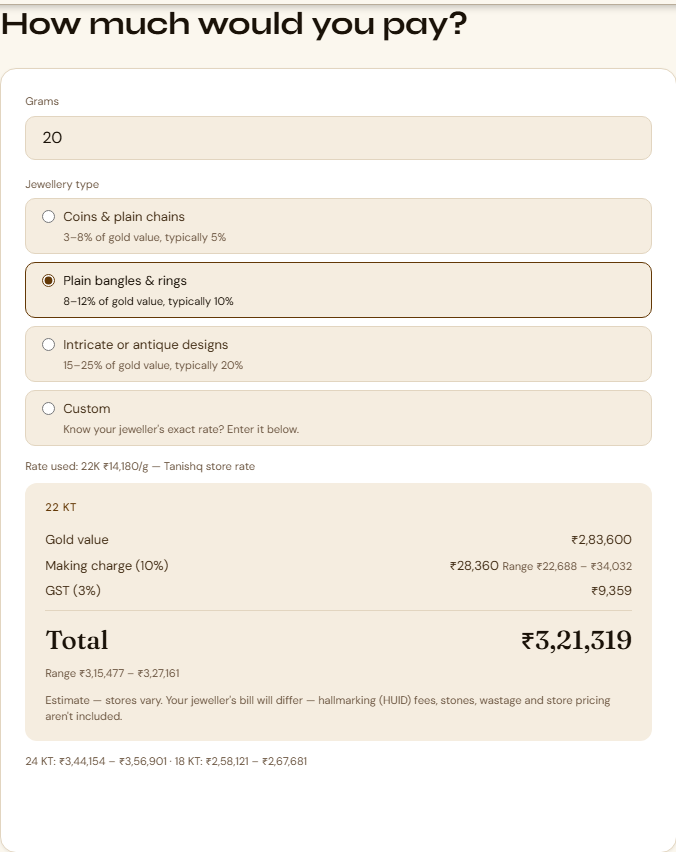
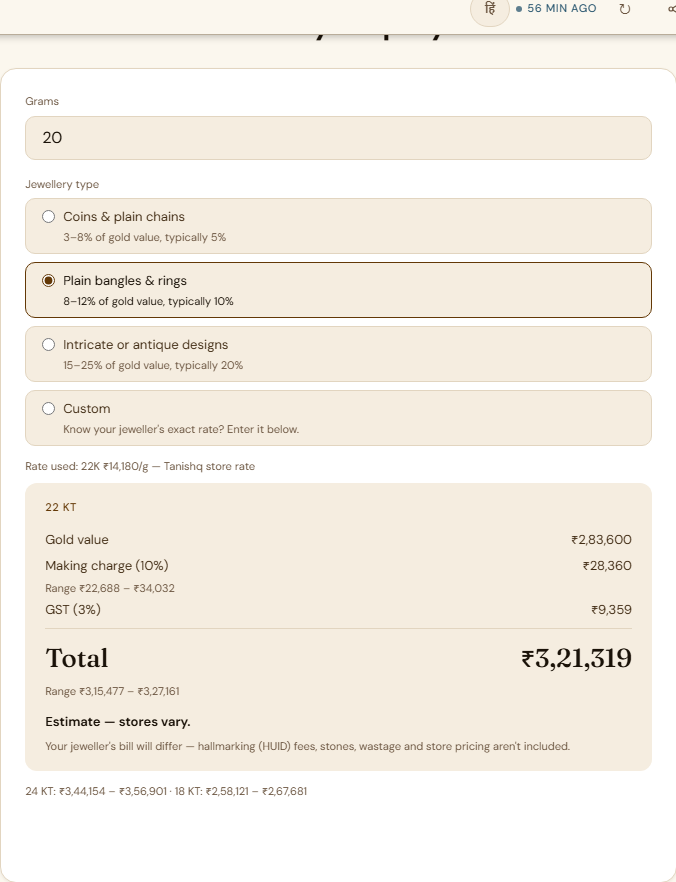
chore(calc): re-measure calc-wrap min-height after the row/label split; refresh screenshots
Splitting the making-charge range onto its own line and promoting the
estimate label to its own bold line both add vertical height. Re-
measured the same way as before (min-height zeroed, renderCalculator()
driven directly): plain/intricate preset 364px; + stale-price or
estimate-tier note 389px (worst case, the two notes are mutually
exclusive); custom 327px, +note 352px. Raised min-height 370px->400px
to cover the new 389px worst case.

Regenerated all five reports/screenshots/p5-estimator/after-*.png
against the updated markup and opened each to confirm: the making-
range now sits on its own muted line under the row instead of
wrapping into the value column, and "Estimate — stores vary." renders
bold and full-cream as its own line above the smaller HUID/stones/
wastage fine print, in every state (default, custom, error, Hindi).

diff --git a/style.css b/style.css
@@ -1353,18 +1353,19 @@ main {
    and the estimated-price or stale-price note are both conditionally
    rendered, so the card is taller once a preset with a non-zero making %
    is selected and/or a note line is showing. Re-measured 2026-09-23 after
-   the jewellery-type presets replaced the flat range (natural scrollHeight
+   splitting the making-charge range onto its own line and promoting the
+   "Estimate — stores vary" label to its own bold line (natural scrollHeight
    at 375px, 20 g, .calc-wrap's own min-height zeroed out to read the real
-   content height): plain/intricate preset + fresh Tanishq rate 338px;
-   + stale-price note OR estimate-tier note 362px (the tallest realistic
+   content height): plain/intricate preset + fresh Tanishq rate 364px;
+   + stale-price note OR estimate-tier note 389px (the tallest realistic
    case -- those two notes are mutually exclusive, never both shown);
-   custom preset (no range line) 300px, +estimate note 324px. 370px covers
-   the 362px worst case with a small margin; a 10 kg entry (values wrap to
-   a second line) still grows the card beyond this, by design -- padding
-   every visit for that extreme isn't worth the gap. */
+   custom preset (no range line) 327px, +estimate/stale note 352px. 400px
+   covers the 389px worst case with a small margin; a 10 kg entry (values
+   wrap to a second line) still grows the card beyond this, by design --
+   padding every visit for that extreme isn't worth the gap. */
 .calc-wrap {
   position: relative;
-  min-height: 370px;
+  min-height: 400px;
 }
 .calc-skeleton {
   position: absolute;
